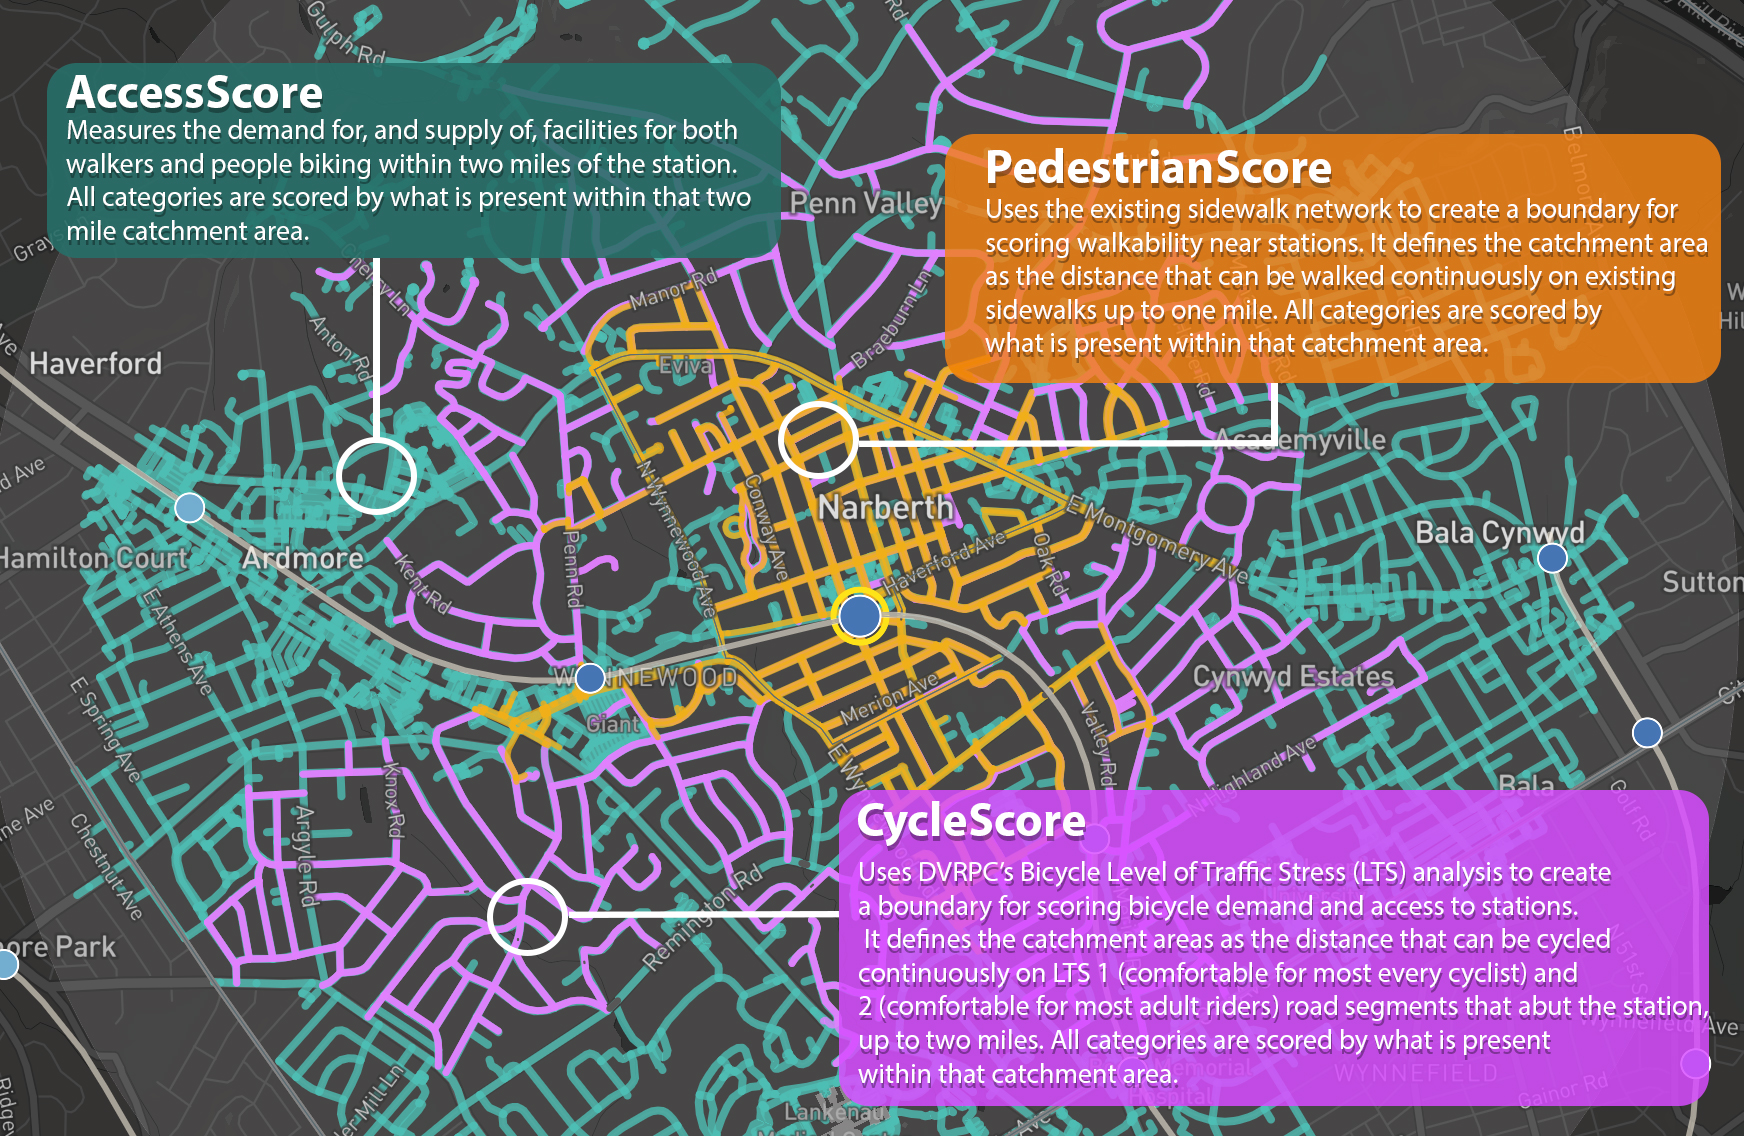
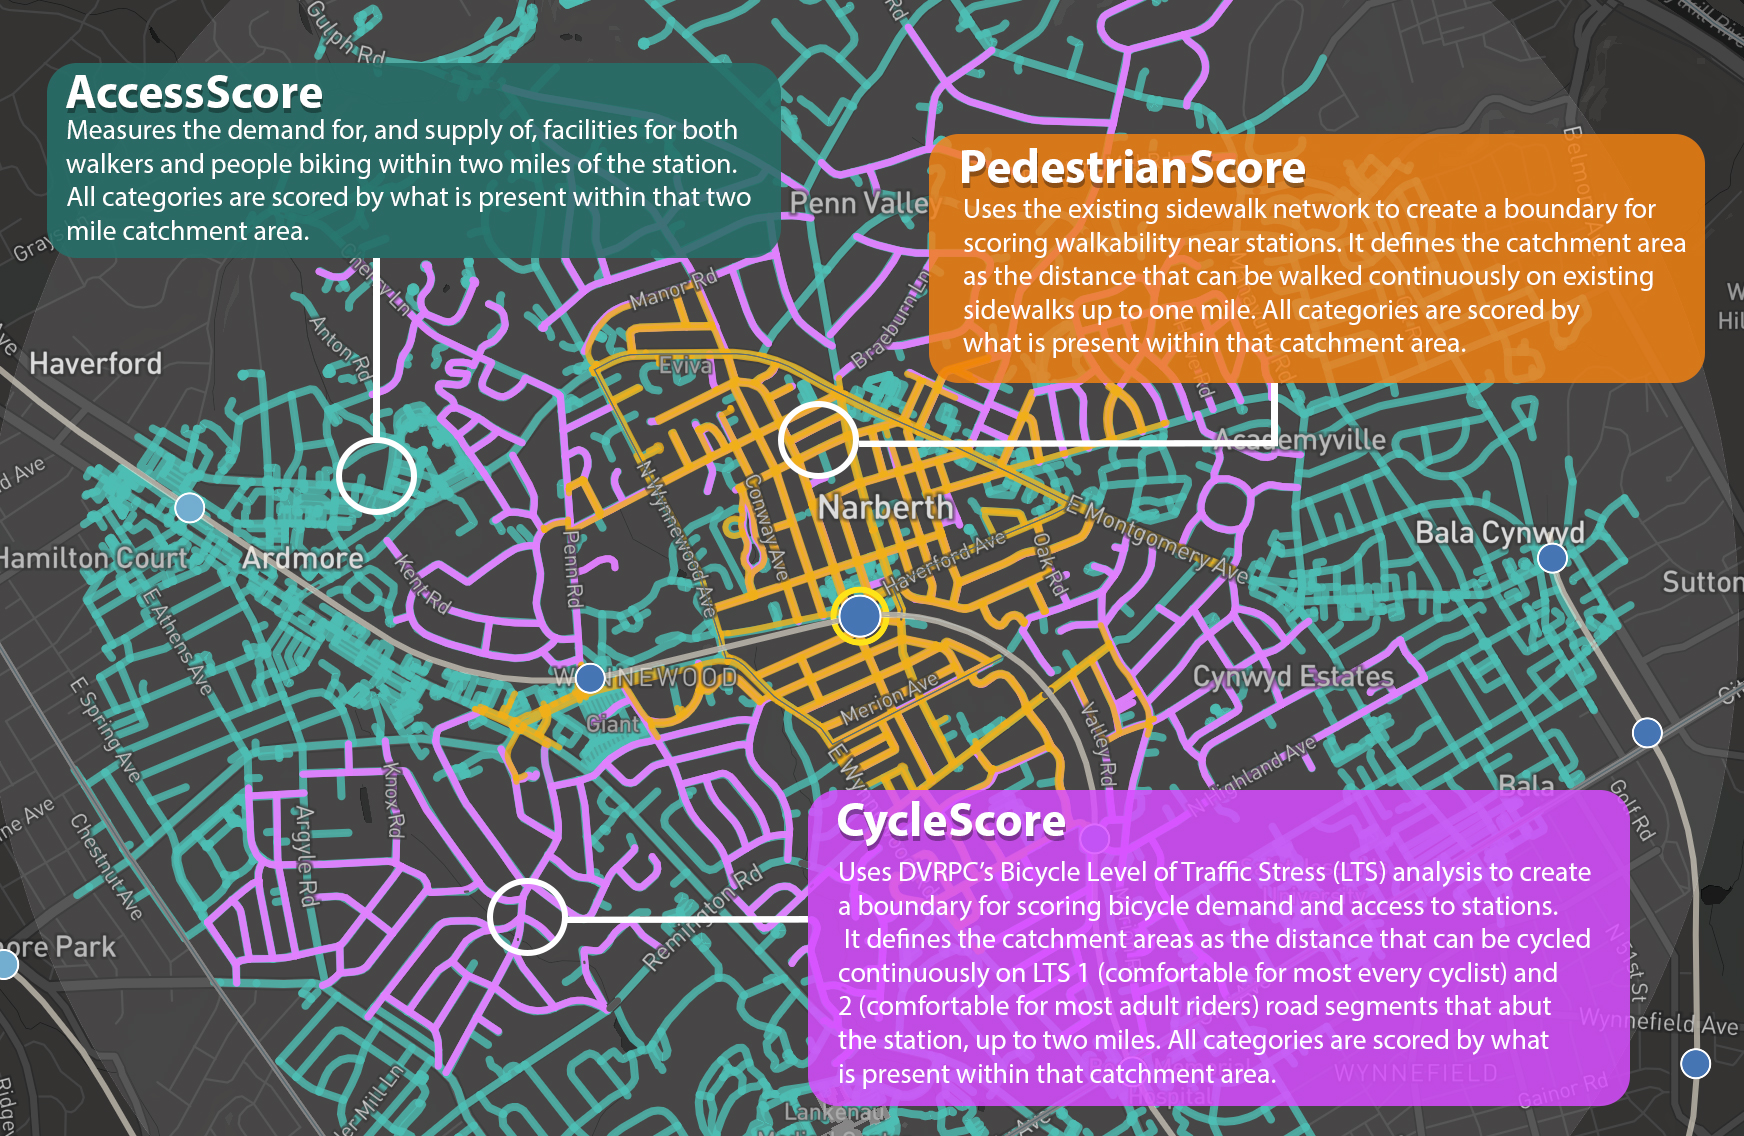
score map and search
score map and search

diff --git a/css/styles.css b/css/styles.css
@@ -321,7 +321,7 @@ nav {
   width: 98%;
   margin-left: 8px;
   align-items: first baseline;
-  border-radius: 4px;
+  border-radius: 4px 4px 0px 0px;
   border-color: #dadada;
   background-color: rgba(255, 255, 255, 0.45);
   box-shadow: 1px 2px 3px rgba(0, 0, 0, 0.6);
@@ -352,7 +352,7 @@ nav {
   padding: 8px 14px;
   text-align: center;
   box-shadow: 0px 3px 10px -2px rgba(48, 149, 140, 0.5);
-  width: 100px;
+  width: 150px;
   background: var(--theme-access-map) !important;
   border: 2px solid #236e68 !important;
   color: var(--theme-access-dark);
@@ -361,6 +361,9 @@ nav {
 }
 .searchOrExploreOR {
   width: 4%;
+}
+#search{
+  margin: 0px 0px 0px -20px;
 }
 #exploreTheMap {
   width: 43%;
@@ -381,11 +384,10 @@ nav {
   border: 2px solid #236e68 !important;
   color: var(--theme-access-dark);
 }
-
 .score-map {
   width: 98%;
-  border-radius: 4px;
-  margin: 10px auto 10px auto;
+  border-radius: 0px 0px 4px 4px;
+  margin: 0px auto 10px auto;
   display: block;
   box-shadow: 1px 2px 3px rgba(0, 0, 0, 0.6);
   min-height: calc(100% - 2 * 50px);
@@ -618,7 +620,7 @@ details > p {
   display: flex;
   justify-content: space-between;
 }
-#label-box {
+#label-box-AS,#label-box-BS,#label-box-WS {
   height: 100%;
   background: white;
   border: 1px solid #979797;
@@ -634,9 +636,17 @@ details > p {
   width: 35vh;
   max-width: 140px;
 }
-#label-box:hover {
+ #label-box-AS:hover {
   font-weight: 700;
-  box-shadow: 0 0 20px rgba(0, 0, 0, 0.5);
+  box-shadow: 0 0 22px rgba(35, 110, 104, 0.8);
+}
+#label-box-BS:hover {
+  font-weight: 700;
+  box-shadow: 0 0 22px rgba(214, 76, 255, 0.8);
+}
+#label-box-WS:hover {
+  font-weight: 700;
+  box-shadow: 0 0 22px rgba(239, 128, 1, 0.8);
 }
 #label-box-about {
   background: white;
@@ -653,22 +663,6 @@ details > p {
   width: 35vh;
   max-width: 140px;
 }
-.AS {
-  background: #3bb8ad !important;
-  border: 2px solid #236e68 !important;
-  color: white;
-}
-.BS {
-  background: #df73ff !important;
-  border: 2px solid #d64cff !important;
-  color: white;
-}
-.WS {
-  background: #efa801 !important;
-  border: 2px solid #ef8001 !important;
-  color: white;
-}
-
 .legend-bar-chart {
   overflow: hidden;
   /* box-shadow: 1px 2px 3px rgba(0,0,0,.3); */
@@ -712,6 +706,12 @@ details > p {
   border: 2px solid #ef8001 !important;
   color: white;
 }
+/* .AS {
+  background: #3bb8ad !important;
+  border: 2px solid #236e68 !important;
+  color: white;
+} */
+
 /* END Sidebar */
 /* Score Colors */
 .as-2 {
@@ -1056,49 +1056,49 @@ input[class="lbox-BS"],
 input[class="lbox-WS"] {
   display: none;
 }
-input[class="lbox-AS"]:not(:disabled) ~ #label-box,
-input[class="lbox-BS"]:not(:disabled) ~ #label-box,
-input[class="lbox-WS"]:not(:disabled) ~ #label-box {
+input[class="lbox-AS"]:not(:disabled) ~ #label-box-AS,
+input[class="lbox-BS"]:not(:disabled) ~ #label-box-BS,
+input[class="lbox-WS"]:not(:disabled) ~ #label-box-WS {
   cursor: pointer;
 }
-input[class="lbox-AS"]:disabled ~ #label-box,
-input[class="lbox-BS"]:disabled ~ #label-box,
-input[class="lbox-WS"]:disabled ~ #label-box {
+input[class="lbox-AS"]:disabled ~ #label-box-AS,
+input[class="lbox-BS"]:disabled ~ #label-box-BS,
+input[class="lbox-WS"]:disabled ~ #label-box-WS {
   color: #bcc2bf;
   border-color: #bcc2bf;
   box-shadow: none;
   cursor: not-allowed;
 }
-input[class="lbox-AS"] + #label-box {
+input[class="lbox-AS"] + #label-box-AS {
   /* OG color #30958c; */
   background: #3bb8ad;
   border: 2px solid #236e68;
   color: white;
 }
-input[class="lbox-BS"] + #label-box {
+input[class="lbox-BS"] + #label-box-BS {
   /* background: #90d782;
     border: 2px solid #73ac68; */
   background: #df73ff;
   border: 2px solid #d64cff;
   color: white;
 }
-input[class="lbox-WS"] + #label-box {
+input[class="lbox-WS"] + #label-box-WS {
   /* background: #ad0074;
     border: 2px solid #8A005C; */
   background: #efa801;
   border: 2px solid #ef8001;
   color: white;
 }
-input[class="lbox-AS"]:checked + #label-box {
+input[class="lbox-AS"]:checked + #label-box-AS {
   box-shadow: 0px 0px 20px rgba(59, 184, 173, 0.75);
 }
-input[class="lbox-BS"]:checked + #label-box {
+input[class="lbox-BS"]:checked + #label-box-BS {
   box-shadow: 0px 0px 20px rgba(223, 115, 255, 0.75);
 }
-input[class="lbox-WS"]:checked + #label-box {
+input[class="lbox-WS"]:checked + #label-box-WS {
   box-shadow: 0px 0px 20px rgba(239, 168, 1, 0.75);
 }
-input[class="lbox-AS"]:checked + #label-box::after {
+input[class="lbox-AS"]:checked + #label-box-AS::after {
   color: #3d3f43;
   font-family: FontAwesome;
   border: 2px solid #236e68;
@@ -1116,7 +1116,7 @@ input[class="lbox-AS"]:checked + #label-box::after {
   background: white;
   box-shadow: 0px 2px 5px -2px rgba(0, 0, 0, 0.25);
 }
-input[class="lbox-BS"]:checked + #label-box::after {
+input[class="lbox-BS"]:checked + #label-box-BS::after {
   color: #3d3f43;
   font-family: FontAwesome;
   border: 2px solid #d64cff;
@@ -1132,9 +1132,10 @@ input[class="lbox-BS"]:checked + #label-box::after {
   text-align: center;
   border-radius: 50%;
   background: white;
-  box-shadow: 0px 2px 5px -2px rgba(0, 0, 0, 0.25);
+  /* box-shadow: 0px 2px 5px -2px rgba(0, 0, 0, 0.25); */
+  box-shadow: 0px 0px 5px -2px rgba(223, 115, 255, 0.3);
 }
-input[class="lbox-WS"]:checked + #label-box::after {
+input[class="lbox-WS"]:checked + #label-box-WS::after {
   color: #3d3f43;
   font-family: FontAwesome;
   border: 2px solid #ef8001;
@@ -1150,7 +1151,7 @@ input[class="lbox-WS"]:checked + #label-box::after {
   text-align: center;
   border-radius: 50%;
   background: white;
-  box-shadow: 0px 2px 5px -2px rgba(0, 0, 0, 0.25);
+  box-shadow: 0px 2px 5px -2px rgba(239, 168, 1, 0.3);
 }
 @media only screen and (max-width: 700px) {
   section {

diff --git a/index.html b/index.html
@@ -127,8 +127,7 @@
               AccessScore is a web map displaying an analysis that assesses the
               infrastructure and demographic characteristics around transit
               stations that relate to how supportive of bicycling and walking
-              the area is and how much bicycle and pedestrian activity there is
-              or could be. The analysis includes Regional Rail and heavy rail,
+              the area is and how much bicycle and pedestrian activity could be occuring there. The analysis includes Regional Rail and heavy rail,
               light rail, trolley, and subway stations throughout the
               Philadelphia region with service provided by SEPTA, NJ TRANSIT,
               and PATCO.
@@ -279,7 +278,7 @@
                     value="1"
                     checked
                   />
-                  <label id="label-box" class="AS" for="control_01">
+                  <label id="label-box-AS" class="AS" for="control_01">
                     AccessScore
                   </label>
                 </div>
@@ -299,7 +298,7 @@
                     name="select"
                     value="2"
                   />
-                  <label id="label-box" class="BS" for="control_02">
+                  <label id="label-box-BS" class="BS" for="control_02">
                     CycleScore
                   </label>
                 </div>
@@ -320,7 +319,7 @@
                     name="select"
                     value="3"
                   />
-                  <label id="label-box" class="WS" for="control_03">
+                  <label id="label-box-WS" class="WS" for="control_03">
                     PedestrianScore
                   </label>
                 </div>
@@ -936,7 +935,7 @@
             </p>
             <br />
             <p>
-              In addition to <b>AccessScore</b>, which measures the demand for
+              In addition to <b>AccessScore</b>, which measures the potential demand for
               and supply of facilities for both walkers and people biking, the
               project team developed a score focused on pedestrians and one
               focused solely on bicycle-friendliness.
@@ -1767,9 +1766,15 @@
       </div>
       <div class="modal-body">
         <p>
-          <b>AccessScore:</b> Measures the demand for, and supply of, facilities for both walkers and people biking within two miles of the station. All categories are scored by what is present within that two mile catchment area.<br><br>
+          <b>AccessScore:</b> Measures the potential demand for, and supply of, facilities for both walkers and people biking within two miles of the station. All categories are scored by what is present within that two mile catchment area.
+          <br>
+          Uses the existing roadway network to create a boundary for scoring infrastructure and demographic characteristics for all users within two miles of a station. All categories are scored by what is present within that catchment area.
+          <br><br>
           <b>PedestrianScore:</b>Uses the existing sidewalk network to create a boundary for scoring walkability near stations. It defines the catchment area as the distance that can be walked continuously on existing sidewalks up to one mile. All categories are scored by what is present within that catchment area. <br><br>
-          <b>CycleScore:</b>Uses DVRPC’s Bicycle Level of Traffic Stress (LTS) analysis to create a boundary for scoring bicycle demand and access to stations. It defines the catchment areas as the distance that can be cycled continuously on LTS 1 (comfortable for most every cyclist) and 2 (comfortable for most adult riders) road segments that abut the station, up to two miles. All categories are scored by what is present within that catchment area. 
+          <b>CycleScore:</b>Uses DVRPC’s Bicycle Level of Traffic Stress (LTS) analysis to create a boundary for scoring bicycle demand and access to stations. It defines the catchment areas as the distance that can be cycled continuously on LTS 1 (comfortable for most every cyclist) and 2 (comfortable for most adult riders) road segments that abut the station, up to two miles. All categories are scored by what is present within that catchment area. <br><br>
+          For more information, please contact Thom Stead <a class="one" href="mailto:tstead@dvrpc.org@dvrpc.org"
+          >tstead@dvrpc.org
+        </a>
         </p>
       </div>
       <!-- /.modal-body -->
